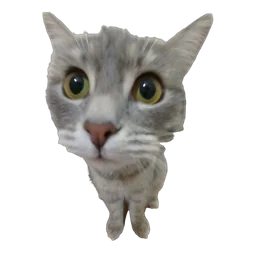
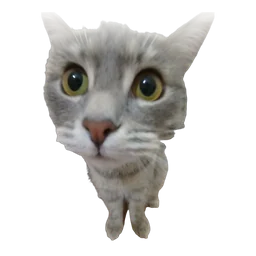
art: fade cats out where their photo was cropped; live test asks for two specified features

diff --git a/packages/ui/e2e/live-team.spec.ts b/packages/ui/e2e/live-team.spec.ts
@@ -18,10 +18,22 @@ const LIVE = process.env['AGENTCATS_LIVE_CLAUDE'] === '1';
 const MODEL = process.env['AGENTCATS_LIVE_MODEL'] ?? 'sonnet';
 /** `mock` dry-runs this test's own logic without spending tokens. */
 const ADAPTER = process.env['AGENTCATS_LIVE_ADAPTER'] === 'mock' ? 'mock' : 'claude';
-const REQUEST =
-  ADAPTER === 'mock'
-    ? 'Add a login endpoint and write tests for it\n/approval'
-    : 'Add a login endpoint and write tests for it';
+/**
+ * Two pieces of work the user wants split. M1's sentence, "Add a login
+ * endpoint and write tests for it", left the split to the lead, and haiku
+ * twice kept it in one task (the endpoint and its tests share files), a fair
+ * call that failed the parallelism check. This tests what agentcats owns:
+ * the lead follows the split and the workers run at once. Both features are
+ * fully specified: given a bare "POST /login", the lead rightly held it back
+ * to ask what a login should check.
+ */
+const WORK =
+  'Add two separate features, each as its own task with its own tests. ' +
+  '1) POST /login: takes JSON { "username", "password" }; returns 200 { "ok": true } for ' +
+  'username "admin" with password "secret" (hardcoded, this is a sample app), and 401 ' +
+  '{ "error": "invalid credentials" } otherwise. ' +
+  '2) GET /version: returns { "version": "1.0.0" }; add "version": "1.0.0" to package.json and read it from there.';
+const REQUEST = ADAPTER === 'mock' ? `${WORK}\n/approval` : WORK;
 const SHOTS = 'test-results/screenshots';
 const NETWORK =
   /\b(curl|wget|npm (i|install|add)|pnpm (add|install)|npx|pip|git (fetch|pull|clone|push))\b|WebFetch|WebSearch/i;
@@ -142,7 +154,7 @@ test.describe('live Claude team', () => {
     }
   });
 
-  test('"Add a login endpoint and write tests for it" gives two parallel workers and reviewable branches', async ({
+  test('two requested features give two parallel workers and reviewable branches', async ({
     page,
   }) => {
     repo = await sampleRepo();
@@ -270,7 +282,8 @@ test.describe('live Claude team', () => {
     expect(peak).toBeGreaterThanOrEqual(2);
     for (const t of branches) {
       expect(t.status).toBe('review');
-      expect(t.commits).toBeGreaterThan(0);
+      // The CLI's mock acts work out and never changes the repo.
+      if (ADAPTER !== 'mock') expect(t.commits).toBeGreaterThan(0);
     }
     expect(git(repo, 'status', '--porcelain')).toBe('');
     expect(git(repo, 'branch', '--show-current')).toBe('main');

diff --git a/tools/cat-art/cutout.py b/tools/cat-art/cutout.py
@@ -34,6 +34,9 @@ SIZE = 256
 PAD = 0.06
 # BiRefNet (MIT): cleaner masks than ISNet on close-up meme faces.
 MODEL = 'birefnet-general-lite'
+# A side of the photo that cuts through the cat is faded out over this much of it.
+FADE = 0.22
+TOUCH = 0.04
 
 
 def meme_name(file_name: str) -> str | None:
@@ -79,7 +82,7 @@ def cut_out(path: Path, session) -> Image.Image:
     PIL.Image.Image
         RGBA image, ``SIZE`` x ``SIZE``, the cat centered with a small margin.
     """
-    cat = keep_largest(remove(Image.open(path).convert('RGB'), session=session))
+    cat = fade_cut_edges(keep_largest(remove(Image.open(path).convert('RGB'), session=session)))
     box = cat.getchannel('A').point(lambda a: 255 if a > 24 else 0).getbbox()
     if box:
         cat = cat.crop(box)
@@ -87,6 +90,58 @@ def cut_out(path: Path, session) -> Image.Image:
     canvas = Image.new('RGBA', (side, side), (0, 0, 0, 0))
     canvas.paste(cat, ((side - cat.width) // 2, side - cat.height - int(side * PAD)))
     return canvas.resize((SIZE, SIZE), Image.LANCZOS)
+
+
+def fade_cut_edges(image: Image.Image, band: float = FADE, touch: float = TOUCH) -> Image.Image:
+    """Fade the cat out toward each side of the photo that cuts through it.
+
+    A meme photo often crops the cat: its body runs into the frame. Cut out,
+    that side ends in a hard straight line, which looks like a pasted
+    rectangle on the board. Each side the cat touches along more than
+    ``touch`` of its length gets a linear alpha ramp, from fully transparent
+    at the frame to unchanged ``band`` of the cat's extent inward.
+
+    Parameters
+    ----------
+    image : PIL.Image.Image
+        RGBA cut-out at the source photo's size, before cropping.
+    band : float, default FADE
+        Ramp length as a fraction of the cat's width (left and right sides)
+        or height (top and bottom).
+    touch : float, default TOUCH
+        Fraction of a side's length the cat must cover for that side to
+        count as a cut. Lower values catch an ear or a paw grazing the frame.
+
+    Returns
+    -------
+    PIL.Image.Image
+        The same image with the ramps applied; unchanged if no side is cut.
+
+    Notes
+    -----
+    A mask's own soft rim covers a few pixels at most, so the 2 px border
+    strip tested here only shows real cuts.
+    """
+    rgba = np.array(image)
+    alpha = rgba[..., 3].astype(np.float32)
+    solid = alpha > 24
+    if not solid.any():
+        return image
+    ys, xs = np.nonzero(solid)
+    height, width = alpha.shape
+    ramp_x = max(2, int((xs.max() - xs.min()) * band))
+    ramp_y = max(2, int((ys.max() - ys.min()) * band))
+    sides = {
+        'left': (solid[:, :2].any(axis=1).mean(), np.arange(width)[None, :], ramp_x),
+        'right': (solid[:, -2:].any(axis=1).mean(), (width - 1 - np.arange(width))[None, :], ramp_x),
+        'top': (solid[:2, :].any(axis=0).mean(), np.arange(height)[:, None], ramp_y),
+        'bottom': (solid[-2:, :].any(axis=0).mean(), (height - 1 - np.arange(height))[:, None], ramp_y),
+    }
+    for covered, distance, ramp in sides.values():
+        if covered > touch:
+            alpha *= np.clip(distance / ramp, 0.0, 1.0)
+    rgba[..., 3] = alpha.round().astype(np.uint8)
+    return Image.fromarray(rgba)
 
 
 def keep_largest(image: Image.Image) -> Image.Image:
@@ -127,7 +182,7 @@ def main(dataset: Path) -> None:
         cut_out(source, session).save(OUT / f"{pick['id']}.webp", 'WEBP', quality=86, method=6)
         manifest.append({'id': pick['id'], 'name': meme_name(source.name)})
         print('cut', pick['id'])
-    MANIFEST.write_text(json.dumps(manifest, indent=2) + '\n', encoding='utf8')
+    MANIFEST.write_text(json.dumps(manifest, indent=2) + '\n', encoding='utf8', newline='\n')
 
 
 if __name__ == '__main__':

diff --git a/docs/decisions.md b/docs/decisions.md
@@ -776,4 +776,11 @@ What a contributor needs to add a third adapter, for M5's contributor guide:
 ### Handoff
 
 - There is no milestone after M5. Next releases follow `docs/releasing.md`: a changeset per user-facing change, `pnpm changeset version`, `pnpm release:build`, the smoke test, then a manual `npm publish`.
-- Open items: the cat pictures' unclear rights (`docs/assets.md`); a few cutouts have a straight edge where the meme photo was cropped; the live test's parallelism assertion fails when the lead keeps the work in one task.
+- Open items after release: see "The open items after 0.1.0" below.
+
+## 2026-11-14 - The open items after 0.1.0
+
+- **Cat picture rights: accepted, not open.** Clearing them is not possible; these photos have circulated as memes for years and their photographers are mostly unknown. `docs/assets.md` keeps the disclosure and the way to remove an image, since a long history of sharing is not a license.
+- **Straight edges on cropped cats: fixed.** `cutout.py` fades the cat out over 22% of its size toward any side of the photo the cat touches along more than 4% of that side (`FADE`, `TOUCH`). 14% still showed a vertical end on `tabby-loaf`. 13 of the 17 pictures changed; the set is 179 KB, down from 212 KB. The manifest is now written with LF line endings on Windows.
+- **The live team test asks for two specified features.** M1's sentence left the split to the lead, and haiku twice kept the endpoint and its tests in one task, a fair call. With "two separate features" but a bare "POST /login", the lead queued the version endpoint and rightly held login back to ask what it should check. With both features specified, the run passed: two tasks, two workers at once, a commit on each branch, $0.02 API-equivalent, with the lead warning about the merge conflict in `src/app.js`. The test now checks what agentcats owns (the lead follows a requested split, workers run in parallel), not a model's judgment on how to split.
+- **The mock dry run of that test works again.** The CLI's mock never commits, so in mock mode the test skips the commit check; it had failed before this change too.

diff --git a/docs/assets.md b/docs/assets.md
@@ -12,9 +12,11 @@ The 17 files used are listed with their dataset paths in `tools/cat-art/picks.js
 **Known risk, recorded on purpose:** the uploader's description says they "collected cat faces from memes".
 The photos were taken by other people, so the uploader may not hold the rights the Apache 2.0 label claims to grant, and some meme cats are also trademarks of their owners.
 The maintainer chose to ship them on 2026-11-14 after this was raised (`docs/decisions.md`, M5 art decision).
+Clearing the rights is not possible: these photos have circulated as memes for years and their photographers are mostly unknown.
+The risk is accepted, not open; what stays is this note and a quick way out.
 If a rights holder objects, remove the image, drop its entry from `tools/cat-art/picks.json`, and rerun the cut-out tool; cats with that look fall back to another one.
 
-**How they were made:** `tools/cat-art/cutout.py` removes the background with rembg 2.0.86 (MIT) and the BiRefNet-lite model (MIT). It keeps only the largest piece of the mask, crops to the cat, and saves a 256 px WebP with transparency.
+**How they were made:** `tools/cat-art/cutout.py` removes the background with rembg 2.0.86 (MIT) and the BiRefNet-lite model (MIT). It keeps only the largest piece of the mask, fades the cat out toward any side of the photo that cut through it (so a cropped body does not end in a straight line), crops to the cat, and saves a 256 px WebP with transparency.
 Nothing was drawn or retouched by hand.
 
 **Names:** a source file that names its meme gives the cat a default name.

diff --git a/.changeset/soft-cat-edges.md b/.changeset/soft-cat-edges.md
@@ -1,0 +1,5 @@
+---
+'agentcats': patch
+---
+
+Cats whose meme photo cut through their body now fade out at that edge instead of ending in a straight line.
